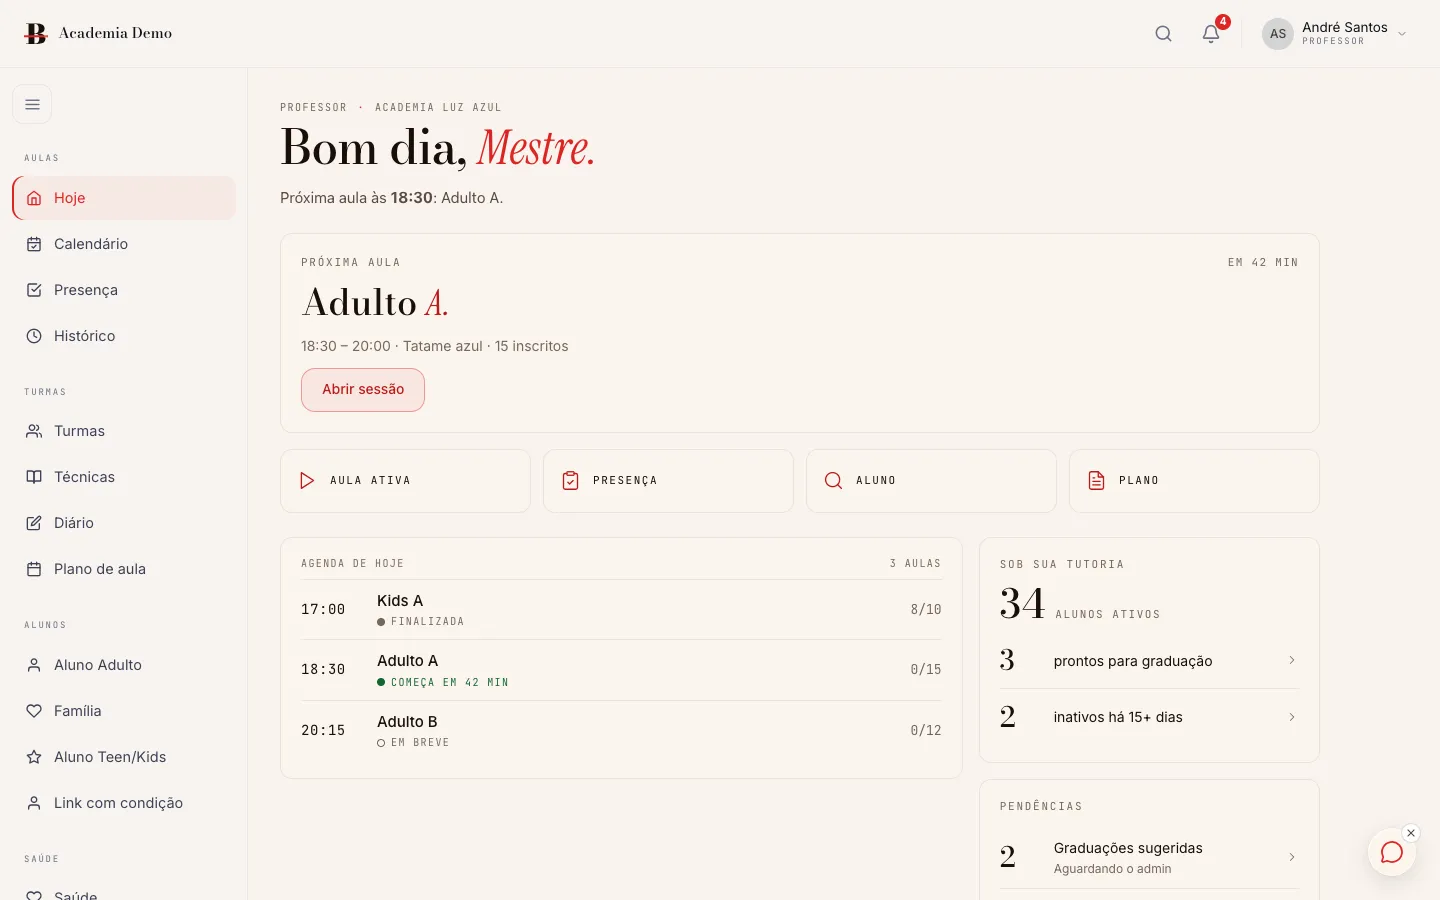
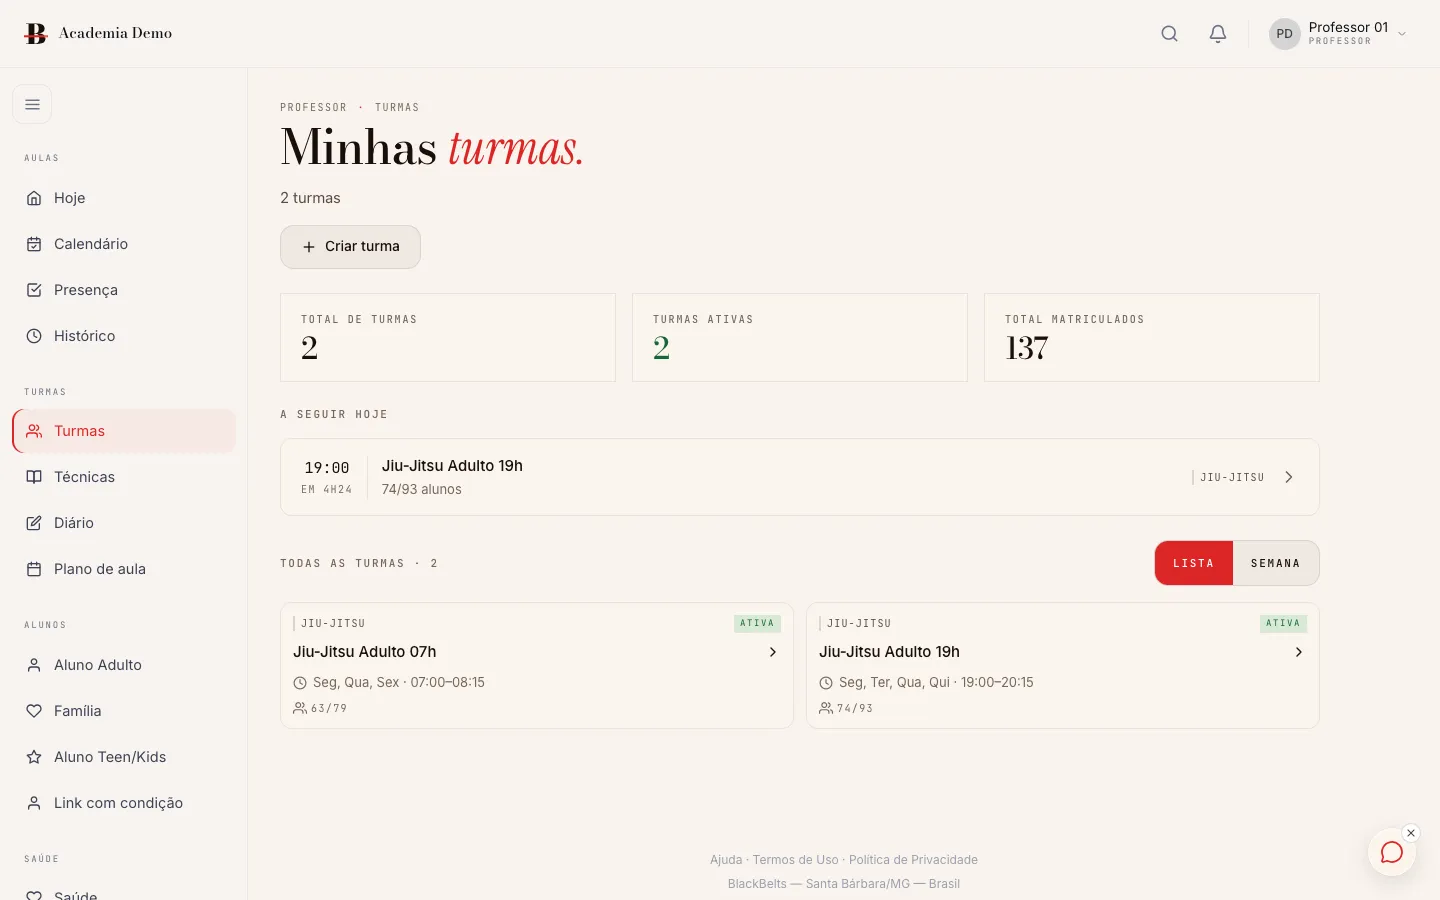
feat: telas por perfil nos slideshows de produto (PrimalWOD e Blackbelts) (#5)
- PrimalWOD: administrador (desktop), coach e atleta (desktop e celular),
  recapturados de um seed local fictício.
- Blackbelts: professor (turmas) e biblioteca de vídeos (desktop), de seed local.
- Remove capturas antigas não usadas e o log versionado .pipeline-logs/latest.log,
  que citava termos proibidos pela regra de conteúdo.

Claude-Session: https://claude.ai/code/session_01KRZHtremdxbx3vfJ982YXT

diff --git a/lib/data/produtos.ts b/lib/data/produtos.ts
@@ -68,19 +68,33 @@ export const productShows: ProductShow[] = [
         id: 'professor',
         demo: true,
         desktop: img('blackbelts', 'professor-desktop', 1440, 900),
-        mobile: img('blackbelts', 'professor-mobile', 780, 1688),
         text: {
           pt: {
             label: 'Professor',
-            caption: 'Painel do professor: próxima aula, agenda do dia e alunos sob a sua tutoria.',
-            altDesktop: 'Painel do professor no Blackbelts no computador: próxima aula, agenda do dia e pendências',
-            altMobile: 'Painel do professor no Blackbelts no celular: próxima aula e agenda do dia',
+            caption: 'Minhas turmas: matriculados por turma, próxima aula do dia e horários da semana.',
+            altDesktop: 'Tela Minhas turmas do professor no Blackbelts no computador: duas turmas de Jiu-Jitsu, matriculados e próxima aula',
           },
           en: {
             label: 'Instructor',
-            caption: 'Instructor dashboard: next class, today’s schedule and the students under their guidance.',
-            altDesktop: 'Blackbelts instructor dashboard on desktop: next class, today’s schedule and pending items',
-            altMobile: 'Blackbelts instructor dashboard on mobile: next class and today’s schedule',
+            caption: 'My classes: enrolled students per class, today’s next class and the weekly schedule.',
+            altDesktop: 'Blackbelts instructor My classes screen on desktop: two Jiu-Jitsu classes, enrolled students and next class',
+          },
+        },
+      },
+      {
+        id: 'biblioteca',
+        demo: true,
+        desktop: img('blackbelts', 'biblioteca-desktop', 1440, 900),
+        text: {
+          pt: {
+            label: 'Biblioteca de vídeos',
+            caption: 'Biblioteca de aulas em vídeo da academia, com filtros por situação e busca.',
+            altDesktop: 'Biblioteca de vídeos do Blackbelts no computador: lista de aulas de Jiu-Jitsu com filtros por situação',
+          },
+          en: {
+            label: 'Video library',
+            caption: 'The gym’s video lesson library, with status filters and search.',
+            altDesktop: 'Blackbelts video library on desktop: a list of Jiu-Jitsu lessons with status filters',
           },
         },
       },
@@ -150,40 +164,57 @@ export const productShows: ProductShow[] = [
       {
         id: 'admin',
         demo: true,
-        desktop: img('primalwod', 'admin-desktop', 1408, 801),
-        mobile: img('primalwod', 'admin-mobile', 716, 1550),
+        desktop: img('primalwod', 'admin-desktop', 1440, 900),
         text: {
           pt: {
             label: 'Administrador',
-            caption: 'Início do painel do dono do box: atletas ativos, receita, inadimplência e check-ins do dia.',
-            altDesktop: 'Painel do administrador do PrimalWOD no computador: atletas ativos, receita, frequência e turmas de hoje',
-            altMobile: 'Painel do administrador do PrimalWOD no celular: receita, inadimplência e check-ins',
+            caption: 'Início do painel do dono do box: atletas ativos, receita, inadimplência, check-ins e turmas do dia.',
+            altDesktop: 'Painel do administrador do PrimalWOD no computador: atletas, receita, inadimplência, frequência e turmas de hoje',
           },
           en: {
             label: 'Administrator',
-            caption: 'Box owner dashboard home: active athletes, revenue, delinquency and today’s check-ins.',
-            altDesktop: 'PrimalWOD administrator dashboard on desktop: active athletes, revenue, attendance and today’s classes',
-            altMobile: 'PrimalWOD administrator dashboard on mobile: revenue, delinquency and check-ins',
+            caption: 'Box owner dashboard home: active athletes, revenue, delinquency, check-ins and today’s classes.',
+            altDesktop: 'PrimalWOD administrator dashboard on desktop: athletes, revenue, delinquency, attendance and today’s classes',
+          },
+        },
+      },
+      {
+        id: 'coach',
+        demo: true,
+        desktop: img('primalwod', 'coach-desktop', 1440, 900),
+        mobile: img('primalwod', 'coach-mobile', 780, 1688),
+        text: {
+          pt: {
+            label: 'Coach',
+            caption: 'Tela Hoje do coach: próxima aula, WOD do dia, aulas e PRs recentes dos atletas.',
+            altDesktop: 'Tela Hoje do coach no PrimalWOD no computador: próxima aula, WOD do dia, aulas de hoje e PRs recentes',
+            altMobile: 'Tela Hoje do coach no PrimalWOD no celular: próxima aula, aulas de hoje e WOD do dia',
+          },
+          en: {
+            label: 'Coach',
+            caption: 'Coach Today screen: next class, workout of the day, classes and athletes’ recent PRs.',
+            altDesktop: 'PrimalWOD coach Today screen on desktop: next class, workout of the day, today’s classes and recent PRs',
+            altMobile: 'PrimalWOD coach Today screen on mobile: next class, today’s classes and workout of the day',
           },
         },
       },
       {
         id: 'atleta',
         demo: true,
-        desktop: img('primalwod', 'atleta-desktop', 1408, 801),
-        mobile: img('primalwod', 'atleta-mobile', 780, 1630),
+        desktop: img('primalwod', 'atleta-desktop', 1440, 900),
+        mobile: img('primalwod', 'atleta-mobile', 780, 1688),
         text: {
           pt: {
             label: 'Aluno (atleta)',
-            caption: 'Tela Hoje do atleta: WOD do dia, aula reservada e semana de treinos.',
-            altDesktop: 'Tela Hoje do atleta no PrimalWOD no computador: WOD do dia, aula reservada e recordes',
-            altMobile: 'Tela Hoje do atleta no PrimalWOD no celular: WOD do dia e aula reservada',
+            caption: 'Tela Hoje do atleta: WOD do dia, último resultado, semana de treinos e PRs.',
+            altDesktop: 'Tela Hoje do atleta no PrimalWOD no computador: WOD do dia, último resultado, semana e PRs',
+            altMobile: 'Tela Hoje do atleta no PrimalWOD no celular: WOD do dia, último resultado e PRs',
           },
           en: {
             label: 'Student (athlete)',
-            caption: 'Athlete Today screen: workout of the day, booked class and training week.',
-            altDesktop: 'PrimalWOD athlete Today screen on desktop: workout of the day, booked class and records',
-            altMobile: 'PrimalWOD athlete Today screen on mobile: workout of the day and booked class',
+            caption: 'Athlete Today screen: workout of the day, latest result, training week and PRs.',
+            altDesktop: 'PrimalWOD athlete Today screen on desktop: workout of the day, latest result, week and PRs',
+            altMobile: 'PrimalWOD athlete Today screen on mobile: workout of the day, latest result and PRs',
           },
         },
       },
